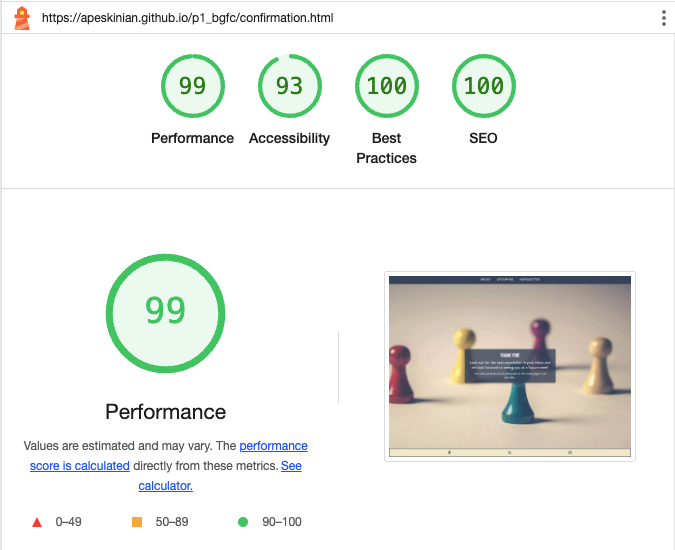
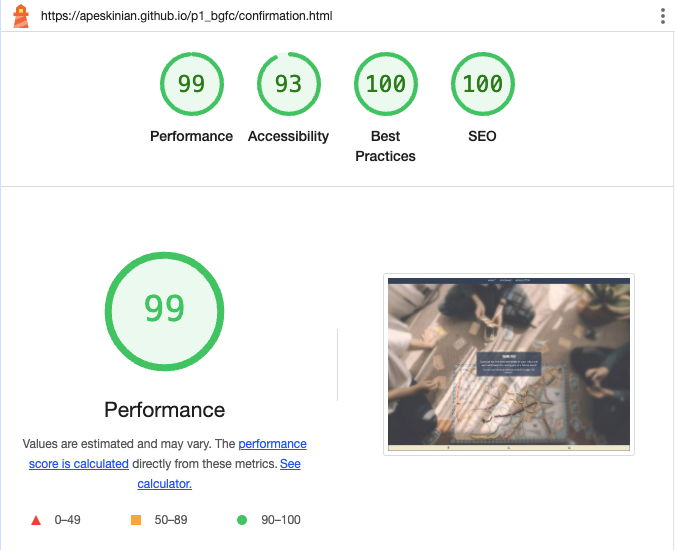
Update laptop and desktop resposive screenshots and lighthouse results with new screenshots for confirmation and 404 in TESTING.md

diff --git a/TESTING.md b/TESTING.md
@@ -57,11 +57,11 @@ I've tested my deployed project using the Lighthouse Audit tool to check for any
 
 | Page | Mobile | Desktop | Notes |
 | --- | --- | --- | --- |
-| Home | ![screenshot](documentation/lighthouse/lighthouse-mobile-index.png) | ![screenshot](documentation/lighthouse/lighthouse-desktop-index.png) | Font Awesome and Google Fonts highlighted as render blocking on mobile |
+| Home | ![screenshot](documentation/lighthouse/lighthouse-mobile-index.png) | ![screenshot](documentation/lighthouse/lighthouse-desktop-index.png) | Font Awesome and Google Fonts highlighted as render blocking resources on mobile |
 | Upcoming | ![screenshot](documentation/lighthouse/lighthouse-mobile-upcoming.png) | ![screenshot](documentation/lighthouse/lighthouse-desktop-upcoming.png) | Some minor warnings |
 | Newsletter | ![screenshot](documentation/lighthouse/lighthouse-mobile-newsletter.png) | ![screenshot](documentation/lighthouse/lighthouse-desktop-newsletter.png) | Some minor warnings |
-| Confirmation | ![screenshot](documentation/lighthouse/lighthouse-mobile-confirmation.png) | ![screenshot](documentation/lighthouse/lighthouse-desktop-confirmation.png) | Accessibility lowered due to automatic refresh meta tag |
-| 404 | ![screenshot](documentation/lighthouse/lighthouse-mobile-404.png) | ![screenshot](documentation/lighthouse/lighthouse-desktop-404.png) | Some minor warnings |
+| Confirmation | ![screenshot](documentation/lighthouse/lighthouse-mobile-confirmation.png) | ![screenshot](documentation/lighthouse/lighthouse-desktop-confirmation.png) | Accessibility lowered due to automatic refresh meta tag, also Font Awesome and Google Fonts highlighted as render blocking resources on mobile |
+| 404 | ![screenshot](documentation/lighthouse/lighthouse-mobile-404.png) | ![screenshot](documentation/lighthouse/lighthouse-desktop-404.png) | Font Awesome and Google Fonts highlighted as render blocking resources on mobile |
 
 ## User Story Testing
 
